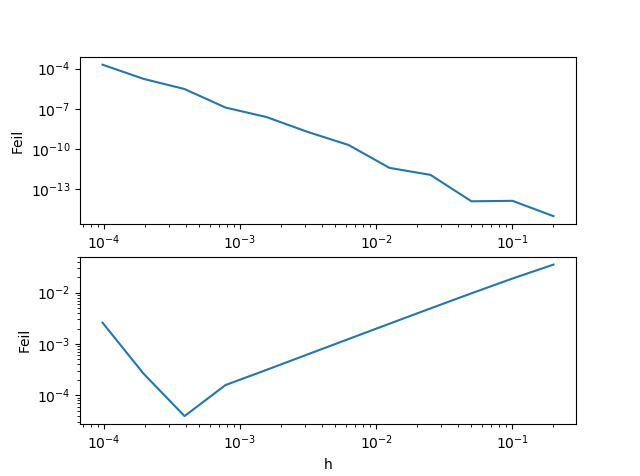
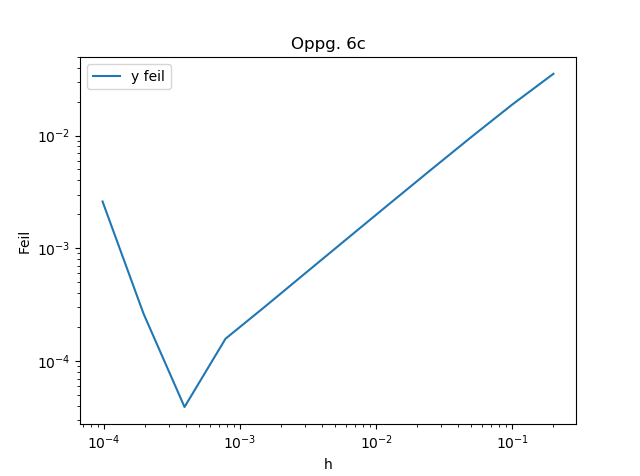
k

diff --git a/python oppg.py b/python oppg.py
@@ -46,7 +46,7 @@ def getB6(n):
     b = getB(n)
 
     for x in range(n):
-        b[x] -= ((h)**4 /(E * I)) * p*g*math.sin((x*h)*math.pi/L) #p*g*math.sin((x*h + h/2)*math.pi/L)
+        b[x] -= ((h)**4 /(E * I)) * p*g*np.sin((x*h)*math.pi/L) #p*g*math.sin((x*h + h/2)*math.pi/L)
         
     return b
 
@@ -56,8 +56,7 @@ def getB7(n):
     b = getB(n)
 
     for x in range(n):
-
-        if (L - h*n <= fl):
+        if (L - h*x <= fl):
             b[x] -= ((h) ** 4 / (E * I)) * g * mp/fl
     return b
 
@@ -110,7 +109,7 @@ def oppg7(i):
 
 
 def kondisjonstall(A):
-    return linalg.norm(A,np.inf)*linalg.norm(linalg.inv(A),np.inf);
+    return linalg.norm(A,1)*linalg.norm(linalg.inv(A),1);
 
 
 n = 10
@@ -143,44 +142,50 @@ print("4.d. Kondisjonstall: ", kondisjonstall(A.toarray()));
 #Mangler å se på kondisjonstallet.
 
 # Tull med oppg e:
-#print("4.e. Differanse: ", y[-1] - getY(L), "\n");
-#print("4.e. Fram. feil: ", linalg.norm(y - getY(L), 1), "\n");
+print("4.e. Differanse: ", y[-1] - getY(L), "\n");
+print("4.e. Fram. feil: ", linalg.norm(y - getY(L), 1), "\n");
 n = m;
 
 print("Oppg. 5")
-oppg5data = oppg5(9)
+arrayY5 = []
+arrayX5 = []
+oppg5data = oppg5(10)
 for e in oppg5data:
     print(e)
+    arrayX5.append(e["h"])
+    arrayY5.append(e["yDiff"])
+
+pl.yscale('log')
+pl.xscale('log')
+pl.xlabel("h")
+pl.ylabel("Feil")
+pl.plot(arrayX5, np.fabs(arrayY5), label="y feil")
+pl.legend()
+
 
 print("Oppg. 6b")
-oppg6data = oppg6b(9)
+oppg6data = oppg6b(10)
 for e in oppg6data:
     print(e)
 
 print("Oppg. 6c")
-arrayY5 = []
-arrayX5 = []
-for e in oppg5data:
-    arrayX5.append(e["h"])
-    arrayY5.append(e["yDiff"])
 arrayY6 = []
 arrayX6 = []
 for e in oppg6data:
     arrayX6.append(e["h"])
     arrayY6.append(e["yDiff"])
 
+'''
 pl.subplot(211)
+
+pl.subplot(212)'''
 pl.yscale('log')
 pl.xscale('log')
 pl.xlabel("h")
 pl.ylabel("Feil")
-pl.plot(arrayX5, np.fabs(arrayY5))
-pl.subplot(212)
-pl.yscale('log')
-pl.xscale('log')
-pl.xlabel("h")
-pl.ylabel("Feil")
-pl.plot(arrayX6, np.fabs(arrayY6))
+pl.title("Oppg. 6c")
+pl.plot(arrayX6, np.fabs(arrayY6), label="y feil")
+pl.legend()
 pl.show()
 
 print("Oppg. 6d")
@@ -196,16 +201,23 @@ pl.yscale('log')
 pl.xscale('log')
 pl.ylabel("kondisjon")
 pl.ylabel("h")
-pl.plot(arrayX5,arrayYerror)
-pl.plot(arrayX5,arrayYKondEps)
-pl.plot(arrayX5, np.fabs(arrayY5))
+pl.title("Oppg. 6d")
+pl.plot(arrayX5,arrayYerror, label="L^2/n^2")
+pl.plot(arrayX5,arrayYKondEps, label="C * machine epsilon")
+pl.plot(arrayX5, np.fabs(arrayY6), label="feil")
+pl.legend()
 pl.show()
+
+
+print("Oppg. 6f")
+print("Den optimale verdien av n er 5120, fordi dette gir lavest feil. Dette er fordi h^4 blir nære marskinepsilon og derfor blir mer unøyaktig etter dette punktet")
 
 print("Oppg. 7")
 
-oppg7data = oppg7(7)
+oppg7data = oppg7(9)
 #for e in oppg7data:
     #print(e)
+print("Stupebrettet bøyes ned " + str(oppg7data[3]["y"][-1]) + " m.")
 
 y7 = []
 x7 = []
@@ -216,5 +228,9 @@ y7 = oppg7data[6]["y"]
 #pl.xlim(-0.1, 2.1)
 pl.ylim(-1.0, 1.0)
 pl.gca().set_aspect('equal', adjustable='box')
-pl.plot(x7, -y7)
+pl.plot(x7, -y7, label='Stupebrett')
+pl.title('Oppg. 7')
+pl.legend()
 pl.show()
+
+print("Se oppg 6f for n.")
